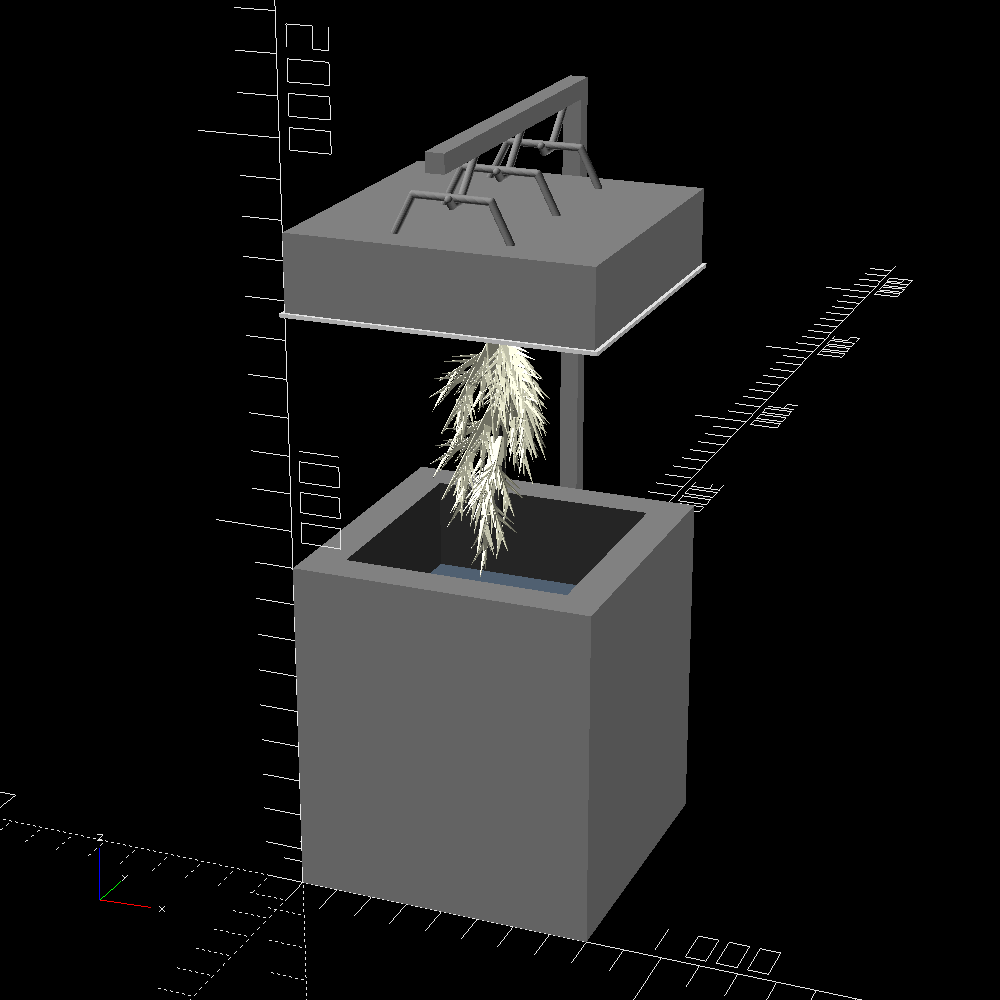
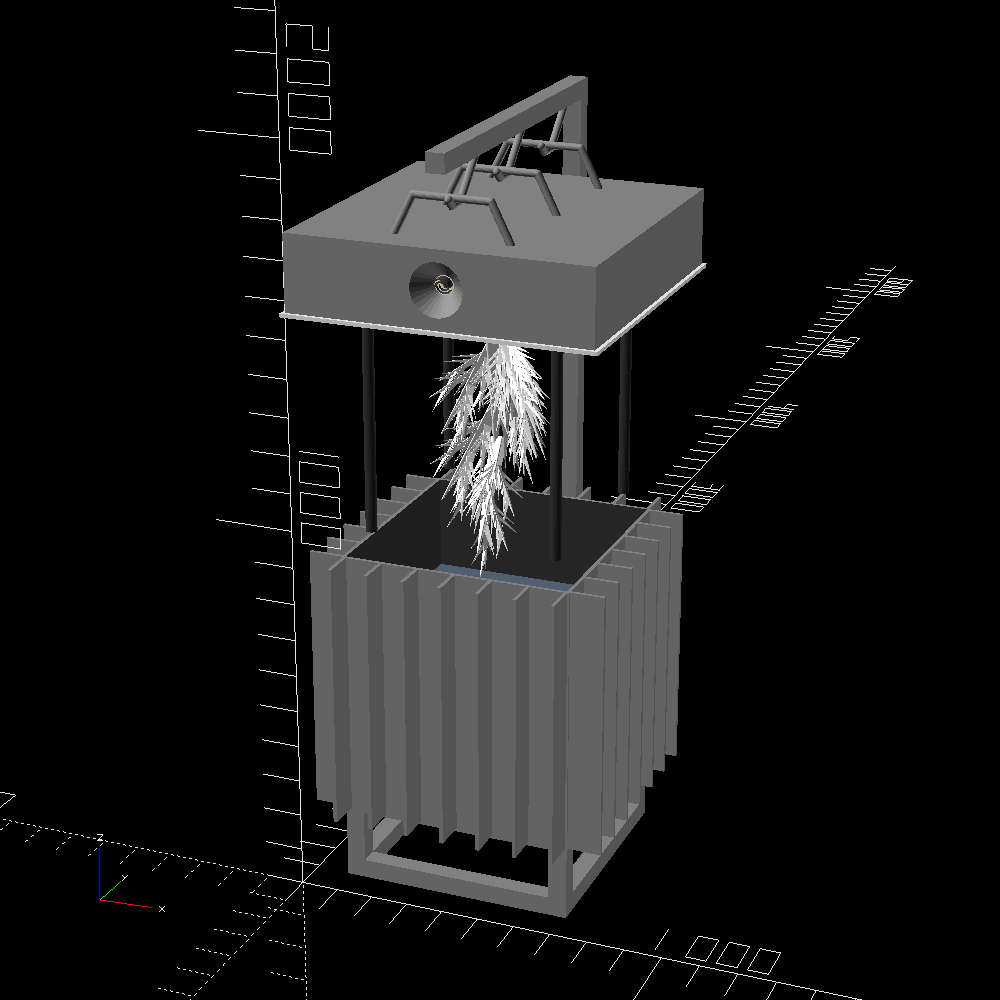
low temperature electrolysis
- recalculated a lot of things in the low temperature electrolysis doc
- changed numbers on the LTE page to match new calculations
- note to remodel the LTE refinery in the future to reflect new findings
- updated gitignore to ignore scad files in the rendering zone
- template tex document

Changed region(s): [[0.279, 0.248, 0.713, 0.961]]

diff --git a/pages/ftt_low_temperature_electrolysis.html b/pages/ftt_low_temperature_electrolysis.html
@@ -39,9 +39,9 @@ These lacking elements are the reason that the LTE process can be thought of as 
 <article>
 <img class="styled right" src="../images/ftt_lte_refinery.webp"></img>
 The machine consists mainly of a large (60cm × 60cm × 60cm) electrolysis chamber, where the concentrated sodium hydroxide solution is poured, and the fine asteroid regolith is added for processing.
-The chamber has additional metal plates protruding from the corners to increase its radiating area, as it produces a lot of heat during operation.
-<span class="meta">(note for myself to change the 3d model to reflect that, see the document for reasoning)</span>
-The walls of the chamber act as an anode, and push current through the solution towards a cathode lowered into the solution at the center of the chamber.
+The chamber has additional metal plates to increase its radiating area, as it produces a lot of heat during operation.
+An assembly of 5 carbon electrodes is lowered into the soluton and push current through it, flowing from 4 anodes in the corners to one central cathode.
+The flow of current from each direction is adjusted as needed to prevent the crystal growth from short circuiting the electrodes, and shuts off the affected cathode in the case that happens.
 <br><br>
 The machine pulls an average of 4134 watts while in operation, and needs 23.38 hours (84.17 kiloseconds) to complete one batch, assuming that it is filled with the intended 100kg of regolith.
 Over the course of the process, <b>348MJ</b> of energy is consumed, and by the end of it the central cathode is overgrown with crystallized metal.

diff --git a/documents/template_document.tex b/documents/template_document.tex
@@ -1,0 +1,73 @@
+\documentclass[a4paper]{article}
+\usepackage[margin=3cm]{geometry}
+\usepackage{graphicx}
+
+\usepackage{hyperref}
+\hypersetup{
+	colorlinks=true,
+	linkcolor=blue,
+	filecolor=magenta,
+	urlcolor=cyan,
+	hyperindex=true,
+	linktocpage=true,%makes the page number be the link in the index
+}
+\usepackage{listings}
+\lstset{
+	basicstyle=\tiny\ttfamily,
+	columns=fullflexible,
+	keepspaces=true,
+	breaklines=true,
+	frame=single,
+	showstringspaces=true,
+	tabsize=4,
+	showspaces=true,
+	showtabs=true,
+}
+
+\renewcommand{\arraystretch}{1.2}
+
+\title{Title}
+
+\author{Chaya2766}
+
+\begin{document}
+	\sffamily
+	\hyphenchar\font=-1
+	\sloppy
+	
+	\maketitle
+	
+	\textbf{
+		\sloppy
+		\hyphenchar\font=-1
+		}
+	
+	\vfill
+	
+	\begin{abstract}
+		Abstract goes here
+	\end{abstract}
+	
+	%\noindent \rule{\linewidth}{1pt}
+	\vfill
+	
+	\tableofcontents
+	
+	\pagebreak
+	
+	\section{First section}
+	
+	Some content here.
+    
+	\pagebreak
+	
+	\section{Code section}
+	
+    Whatever code is needed.
+    
+	\begin{lstlisting}
+Code goes here
+Be mindful of tabs and spaces
+	\end{lstlisting}
+	
+\end{document}
